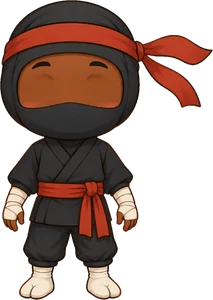
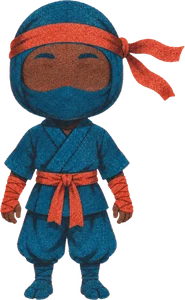
feat(front): mascote ninja no estilo riso
Desenho trocado pelo estilo riso (duas tintas, vermelho-carimbo e
azul-petróleo, com grão; pele negra pela sobreposição das tintas).
Olhos redesenhados: pálpebra de cima reta e inclinada (olhar decidido)
e íris castanha. A fumaça do pulo vira retícula com a segunda tinta fora
de registro. Cintura do pulo e ponto da mira recalculados para o desenho
novo (185 × 300).

diff --git a/frontend/landing/v1/landing.css b/frontend/landing/v1/landing.css
@@ -21,10 +21,10 @@
   --sombra-icone: drop-shadow(0 16px 14px rgba(0, 0, 0, .6)) drop-shadow(0 3px 3px rgba(0, 0, 0, .45));
   /* mascote ninja: cores dos olhos (fixas, são do desenho) e o contorno que
      separa a roupa preta do fundo escuro */
-  --mascote-esclera: #F4E8D8; --mascote-traco: #2A140A; --mascote-iris-1: #7A4220;
-  --mascote-iris-2: #1C0C05; --mascote-pupila: #0E0603; --mascote-brilho: #FFFFFF;
+  --mascote-esclera: #F6E4D0; --mascote-traco: #1F2E36; --mascote-iris-1: #2B160D;
+  --mascote-iris-2: #7A4122; --mascote-pupila: #160B07; --mascote-brilho: #F6E3CE;
   --mascote-contorno: drop-shadow(0 0 1.5px rgba(240, 233, 221, .6)) drop-shadow(0 8px 10px rgba(0, 0, 0, .55));
-  --mascote-fumaca: #E9E1D3; --mascote-fumaca-traco: #8A8072;
+  --mascote-fumaca-1: #E9DCC8; --mascote-fumaca-2: #C23B22;
 
   color-scheme: dark;
 }
@@ -42,7 +42,7 @@
   --marca: "Shippori Mincho B1", Georgia, serif;
   --ease: cubic-bezier(.22, .8, .24, 1);
   --mascote-contorno: drop-shadow(0 8px 10px rgba(70, 45, 20, .2));
-  --mascote-fumaca: #FFFFFF; --mascote-fumaca-traco: #BDB09B;
+  --mascote-fumaca-1: #13618A; --mascote-fumaca-2: #C23B22;
   color-scheme: light;
 }
 * { box-sizing: border-box; }
@@ -487,20 +487,25 @@ body::before { content: ""; position: fixed; inset: 0 0 auto; height: env(safe-a
    pulinho com os olhos fechados sorrindo. É enfeite: aria-hidden e sem
    clique. Os olhos são SVG por cima do desenho, que vem sem eles. */
 .mascote { position: fixed; left: max(16px, env(safe-area-inset-left, 0px)); bottom: max(10px, env(safe-area-inset-bottom, 0px)); height: 90px; z-index: 30; pointer-events: none; filter: var(--mascote-contorno); }
-.mascote-corpo { position: relative; height: 100%; aspect-ratio: 213 / 300; transform-origin: 50% 100%; animation: mascote-respira 3.4s ease-in-out infinite; }
+.mascote-corpo { position: relative; height: 100%; aspect-ratio: 185 / 300; transform-origin: 50% 100%; animation: mascote-respira 3.4s ease-in-out infinite; }
 .mascote-corpo img, .mascote-corpo svg, .mascote-salto, .mascote-pernas, .mascote-tronco { position: absolute; inset: 0; width: 100%; height: 100%; }
-/* O pulo dobra as perninhas: o desenho é partido na cintura (linha 232 de 300,
-   abaixo das mãos e das pontas do cinto). As pernas agacham e esticam a partir
-   do chão, e o tronco desce o mesmo tanto (22,67% × quanto a perna encolheu). */
-.mascote-pernas { transform-origin: 33% 100%; }
-.mascote-pernas img { clip-path: inset(77% 0 0 0); }
-.mascote-tronco img { clip-path: inset(0 0 22.33% 0); }
-.mascote-fumaca { position: absolute; left: 33%; bottom: -5px; width: 105%; transform: translateX(-50%); overflow: visible; }
-.mascote-fumaca circle { fill: var(--mascote-fumaca); stroke: var(--mascote-fumaca-traco); stroke-width: 1.2; }
-.mascote-fumaca g { opacity: 0; transform-box: fill-box; transform-origin: 50% 100%; }
+/* O pulo dobra as perninhas: o desenho (riso, 185 × 300) é partido na cintura
+   (linha 226, abaixo das mãos e das pontas do cinto). As pernas agacham e
+   esticam a partir do chão, e o tronco desce o mesmo tanto (24,67% × quanto a
+   perna encolheu). */
+.mascote-pernas { transform-origin: 36% 100%; }
+.mascote-pernas img { clip-path: inset(75.33% 0 0 0); }
+.mascote-tronco img { clip-path: inset(0 0 24.33% 0); }
+.mascote-fumaca { position: absolute; left: 36%; bottom: -5px; width: 105%; transform: translateX(-50%); overflow: visible; }
+/* fumaça no estilo riso: retícula de pontos numa tinta e a outra tinta
+   chapada por baixo, fora de registro, sem contorno */
+.mascote-fumaca .tinta-1 circle { fill: url(#mascote-reticula); }
+.mascote-fumaca .ponto { fill: var(--mascote-fumaca-1); }
+.mascote-fumaca .tinta-2 circle { fill: var(--mascote-fumaca-2); opacity: .5; }
+.mascote-fumaca > g { opacity: 0; transform-box: fill-box; transform-origin: 50% 100%; }
 .mascote-olho { transform-box: fill-box; transform-origin: center; transition: transform .08s ease, opacity .12s ease; }
 .mascote .esclera { fill: var(--mascote-esclera); stroke: var(--mascote-traco); stroke-width: 1.4; }
-.mascote .cilio, .mascote .feliz-traco { fill: none; stroke: var(--mascote-traco); stroke-width: 2.6; stroke-linecap: round; }
+.mascote .cilio, .mascote .feliz-traco { fill: none; stroke: var(--mascote-traco); stroke-width: 2.4; stroke-linecap: round; }
 .mascote .pupila { fill: var(--mascote-pupila); }
 .mascote .brilho { fill: var(--mascote-brilho); }
 .mascote .iris-1 { stop-color: var(--mascote-iris-1); }
@@ -535,12 +540,12 @@ body::before { content: ""; position: fixed; inset: 0 0 auto; height: env(safe-a
 }
 @keyframes mascote-tronco {
   0% { transform: translateY(0); animation-timing-function: ease-out; }
-  18% { transform: translateY(7.25%); animation-timing-function: ease-in; }
-  28% { transform: translateY(-1.81%); }
-  46% { transform: translateY(2.27%); }
-  60% { transform: translateY(-.45%); animation-timing-function: ease-out; }
-  70% { transform: translateY(6.35%); animation-timing-function: ease-in-out; }
-  86% { transform: translateY(-.68%); }
+  18% { transform: translateY(7.89%); animation-timing-function: ease-in; }
+  28% { transform: translateY(-1.97%); }
+  46% { transform: translateY(2.47%); }
+  60% { transform: translateY(-.49%); animation-timing-function: ease-out; }
+  70% { transform: translateY(6.91%); animation-timing-function: ease-in-out; }
+  86% { transform: translateY(-.74%); }
   100% { transform: translateY(0); }
 }
 /* fumacinha no chão: uma na saída (22–44%) e outra maior na chegada (60–92%) */

diff --git a/frontend/landing/v1/index.html b/frontend/landing/v1/index.html
@@ -320,23 +320,26 @@
 </footer>
 <div class="mascote" id="mascote" aria-hidden="true">
   <svg class="mascote-fumaca" viewBox="0 0 140 40" focusable="false">
-    <g class="fumaca-e"><circle cx="46" cy="29" r="8"/><circle cx="36" cy="32" r="6"/><circle cx="55" cy="33" r="5"/></g>
-    <g class="fumaca-d"><circle cx="94" cy="29" r="8"/><circle cx="104" cy="32" r="6"/><circle cx="85" cy="33" r="5"/></g>
+    <defs><pattern id="mascote-reticula" width="3.2" height="3.2" patternUnits="userSpaceOnUse" patternTransform="rotate(30)"><circle class="ponto" cx="1.6" cy="1.6" r="1.25"/></pattern></defs>
+    <g class="fumaca-e"><g class="tinta-2" transform="translate(1.6 1.1)"><circle cx="46" cy="29" r="8"/><circle cx="36" cy="32" r="6"/><circle cx="55" cy="33" r="5"/></g><g class="tinta-1"><circle cx="46" cy="29" r="8"/><circle cx="36" cy="32" r="6"/><circle cx="55" cy="33" r="5"/></g></g>
+    <g class="fumaca-d"><g class="tinta-2" transform="translate(1.6 1.1)"><circle cx="94" cy="29" r="8"/><circle cx="104" cy="32" r="6"/><circle cx="85" cy="33" r="5"/></g><g class="tinta-1"><circle cx="94" cy="29" r="8"/><circle cx="104" cy="32" r="6"/><circle cx="85" cy="33" r="5"/></g></g>
   </svg>
   <div class="mascote-corpo">
    <div class="mascote-salto">
-    <div class="mascote-pernas"><img src="../../img/mascote/ninja.webp" alt="" width="213" height="300"></div>
+    <div class="mascote-pernas"><img src="../../img/mascote/ninja.webp" alt="" width="185" height="300"></div>
     <div class="mascote-tronco">
-    <img src="../../img/mascote/ninja.webp" alt="" width="213" height="300">
-    <svg viewBox="0 0 213 300" focusable="false">
+    <img src="../../img/mascote/ninja.webp" alt="" width="185" height="300">
+    <svg viewBox="0 0 185 300" focusable="false">
       <defs>
-        <radialGradient id="mascote-iris" cx="50%" cy="62%" r="55%"><stop class="iris-1" offset="0"/><stop class="iris-2" offset="1"/></radialGradient>
-        <clipPath id="mascote-esclera-e"><ellipse cx="39.6" cy="90.9" rx="14.5" ry="13.6"/></clipPath>
-        <clipPath id="mascote-esclera-d"><ellipse cx="100" cy="90.9" rx="14.5" ry="13.6"/></clipPath>
-        <clipPath id="mascote-abertura"><rect x="0" y="0" width="213" height="106"/></clipPath>
+        <radialGradient id="mascote-iris" cx="50%" cy="50%" r="50%"><stop class="iris-1" offset=".35"/><stop class="iris-2" offset="1"/></radialGradient>
+        <clipPath id="mascote-esclera-e"><ellipse cx="43.5" cy="78.4" rx="11.2" ry="10.9"/></clipPath>
+        <clipPath id="mascote-esclera-d"><ellipse cx="90.3" cy="78.4" rx="11.2" ry="10.9"/></clipPath>
+        <clipPath id="mascote-palpebra-e"><polygon points="29.5,68.4 57.5,72.8 57.5,92.4 29.5,92.4"/></clipPath>
+        <clipPath id="mascote-palpebra-d"><polygon points="76.3,72.8 104.3,68.4 104.3,92.4 76.3,92.4"/></clipPath>
+        <clipPath id="mascote-abertura"><rect x="0" y="0" width="185" height="89"/></clipPath>
       </defs>
-      <g clip-path="url(#mascote-abertura)"><g class="mascote-olho"><ellipse class="esclera" cx="39.6" cy="90.9" rx="15.2" ry="14.3"/><g clip-path="url(#mascote-esclera-e)"><g class="mascote-iris"><circle cx="39.6" cy="90.9" r="12.6" fill="url(#mascote-iris)"/><circle class="pupila" cx="39.6" cy="90.9" r="6.2"/><circle class="brilho" cx="43.6" cy="86.3" r="3.7"/><circle class="brilho" cx="35.5" cy="94.9" r="1.6"/></g></g><path class="cilio" d="M24.4 90.9A15.2 14.3 0 0 1 54.8 90.9"/></g><g class="mascote-olho"><ellipse class="esclera" cx="100" cy="90.9" rx="15.2" ry="14.3"/><g clip-path="url(#mascote-esclera-d)"><g class="mascote-iris"><circle cx="100" cy="90.9" r="12.6" fill="url(#mascote-iris)"/><circle class="pupila" cx="100" cy="90.9" r="6.2"/><circle class="brilho" cx="104" cy="86.3" r="3.7"/><circle class="brilho" cx="95.9" cy="94.9" r="1.6"/></g></g><path class="cilio" d="M84.8 90.9A15.2 14.3 0 0 1 115.2 90.9"/></g></g>
-      <g class="mascote-feliz"><path class="feliz-traco" d="M28.6 93.9Q39.6 81.9 50.6 93.9"/><path class="feliz-traco" d="M89 93.9Q100 81.9 111 93.9"/></g>
+      <g clip-path="url(#mascote-abertura)"><g class="mascote-olho"><g clip-path="url(#mascote-palpebra-e)"><ellipse class="esclera" cx="43.5" cy="78.4" rx="11.8" ry="11.5"/><g clip-path="url(#mascote-esclera-e)"><g class="mascote-iris"><circle cx="43.5" cy="78.4" r="8.2" fill="url(#mascote-iris)"/><circle class="pupila" cx="43.5" cy="78.4" r="4"/><circle class="brilho" cx="46.1" cy="76" r="1.9"/><circle class="brilho" cx="41.1" cy="81" r=".8"/></g></g></g><path class="cilio" d="M31 68.6L56 72.6"/></g><g class="mascote-olho"><g clip-path="url(#mascote-palpebra-d)"><ellipse class="esclera" cx="90.3" cy="78.4" rx="11.8" ry="11.5"/><g clip-path="url(#mascote-esclera-d)"><g class="mascote-iris"><circle cx="90.3" cy="78.4" r="8.2" fill="url(#mascote-iris)"/><circle class="pupila" cx="90.3" cy="78.4" r="4"/><circle class="brilho" cx="92.9" cy="76" r="1.9"/><circle class="brilho" cx="87.9" cy="81" r=".8"/></g></g></g><path class="cilio" d="M77.8 72.6L102.8 68.6"/></g></g>
+      <g class="mascote-feliz"><path class="feliz-traco" d="M35.0 80.4Q43.5 71.4 52.0 80.4"/><path class="feliz-traco" d="M81.8 80.4Q90.3 71.4 98.8 80.4"/></g>
     </svg>
     </div>
    </div>

diff --git a/frontend/landing/v1/landing.js b/frontend/landing/v1/landing.js
@@ -421,9 +421,9 @@
     };
     var mira = function (x, y) {
       var r = olhosSvg.getBoundingClientRect();
-      /* ponto entre os dois olhos, no desenho de 213 × 300 */
-      var dx = x - (r.left + r.width * 70 / 213), dy = y - (r.top + r.height * 91 / 300);
-      var d = Math.hypot(dx, dy) || 1, k = Math.min(1, d / 220) * 3.4;
+      /* ponto entre os dois olhos, no desenho de 185 × 300 */
+      var dx = x - (r.left + r.width * 67 / 185), dy = y - (r.top + r.height * 78 / 300);
+      var d = Math.hypot(dx, dy) || 1, k = Math.min(1, d / 220) * 2.6;
       olhoQuer = [dx / d * k, dy / d * k];
       if (reduzido) { olhoAtual = olhoQuer.slice(); desenhaOlho(); return; }
       if (!olhoRodando) { olhoRodando = true; requestAnimationFrame(andaOlho); }

diff --git a/docs/icones-3d.md b/docs/icones-3d.md
@@ -12,12 +12,13 @@ originais em resolução cheia ficam nesse arquivo do Figma; o repositório guar
 | `img/modalidades/` | um ícone por modalidade que não usa um da base |
 | `img/envelope/` | o envelope das telas de senha, em camadas: `aba`, `interior`, `bolso` e a `chave` da carta |
 | `img/landing/` | as ilustrações em gravura da landing: `mao-faixa`, `mao-tigela`, `onda` e uma mão por modalidade da faixa (`mao-muay-thai`, `mao-boxe`, `mao-musculacao`, `mao-corrida`, `mao-futebol`, `mao-natacao`, `mao-ciclismo`, `mao-volei`, `mao-danca`) |
-| `img/mascote/` | o mascote ninja da landing, de frente e **sem os olhos** (`ninja.webp`, 213 × 300): os olhos são SVG no `index.html`, para seguirem o mouse |
+| `img/mascote/` | o mascote ninja da landing, de frente e **sem os olhos** (`ninja.webp`, 185 × 300): os olhos são SVG no `index.html`, para seguirem o mouse |
 
-O ninja foi gerado no Figma (estilo de desenho infantil, contorno marrom-escuro, roupa preta, faixa e cinto no
-vermelho-carimbo, pele negra, rosto coberto até o nariz). Os olhos foram apagados pintando a pele por cima,
-interpolada linha a linha entre os dois lados de cada olho; a máscara não foi tocada. No desenho de 213 × 300,
-os olhos ficam em (39,6; 90,9) e (100; 90,9), com raio de 15,2 × 14,3.
+O ninja foi gerado no Figma no estilo **riso** (impressão em duas tintas, vermelho-carimbo e azul-petróleo, com
+grão e meio-tom; pele negra feita pela sobreposição das duas tintas, rosto coberto até o nariz). Os olhos foram
+apagados pintando a pele por cima, interpolada linha a linha entre os dois lados de cada olho, com ruído para
+imitar o grão; a máscara não foi tocada. No desenho de 185 × 300, os olhos ficam em (43,5; 78,4) e (90,3; 78,4),
+com raio de 11,8 × 11,5, e a cintura (onde o pulo parte o desenho) fica na linha 226.
 
 Cinco modalidades usam um ícone da base: Jiu-jitsu → `quimono`, Muay thai → `bandagem`, Boxe → `luva`,
 Musculação → `halter` e Natação → `oculos`. As outras 21 têm o arquivo com o nome da modalidade, sem acento
